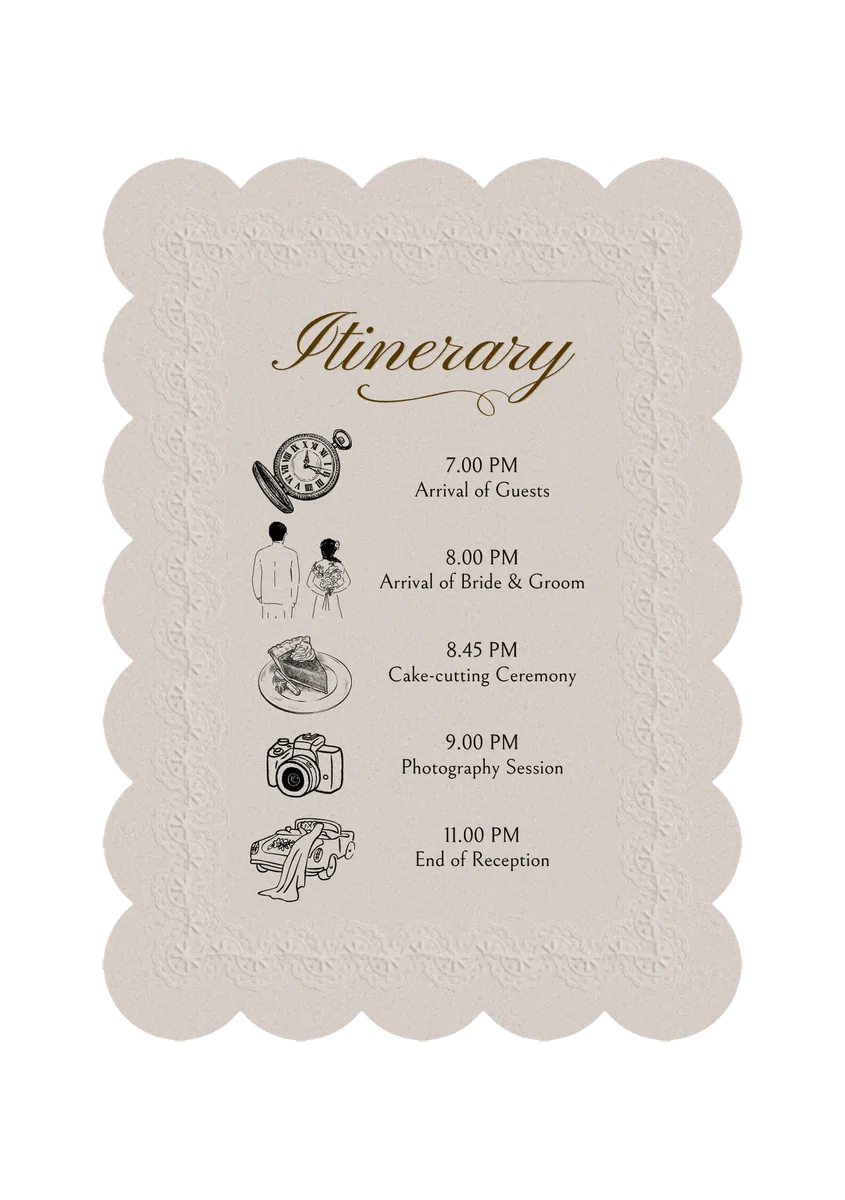
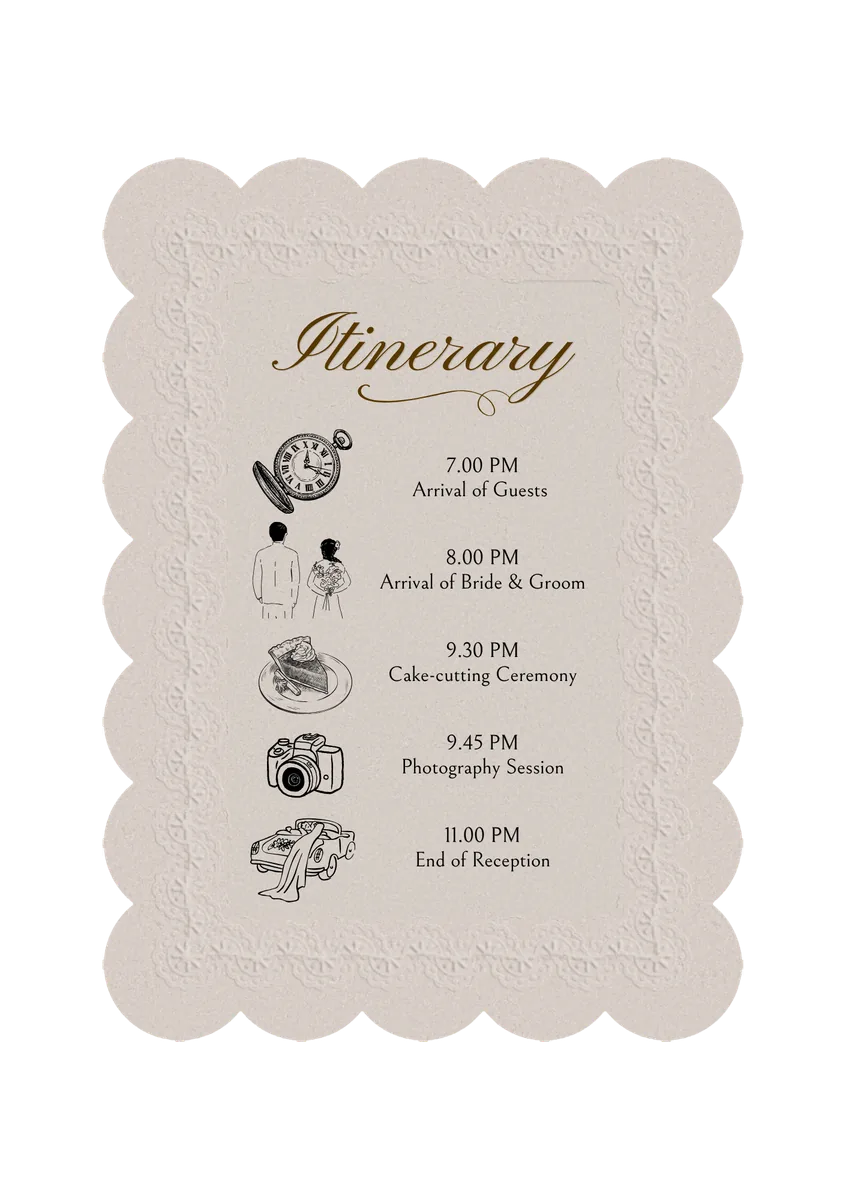
Swap in the new itinerary and split the sittings
?t=7 / ?t=9 set which session the invitation card shows.

diff --git a/lib/invite-variant.ts b/lib/invite-variant.ts
@@ -9,6 +9,18 @@ import { useSearchParams } from 'next/navigation';
  *   ?p=v2 → Anis' parents' guests    — 7–9 PM, registry shown
  *   ?p=v3 → our friends and guests   — 9–11 PM, registry shown
  *
+ * `?t=` sets the session window on its own, for links that only need to say
+ * which sitting a guest is invited to:
+ *
+ *   ?t=7 → 1st session, 7–9 PM
+ *   ?t=9 → 2nd session, 9–11 PM
+ *
+ * The two compose: `?t=` overrides whatever the `?p=` variant said about time
+ * and leaves the registry to `?p=`, so `?p=v1&t=9` is a 9–11 PM guest with the
+ * registry hidden. Time is one decision — the label, the calendar range and the
+ * countdown all move together, or the card and the "Add to Calendar" button end
+ * up disagreeing.
+ *
  * No param (or an unknown one) falls back to the full 7–11 PM invitation with
  * the registry, so a stripped or mistyped link never shows less than the truth.
  */
@@ -23,6 +35,21 @@ export interface InviteVariant {
   showRegistry: boolean;
 }
 
+/** The time half of a variant — everything `?t=` is allowed to set. */
+type InviteWindow = Pick<InviteVariant, 'timeLabel' | 'calendarDates' | 'countdownTarget'>;
+
+const EARLY: InviteWindow = {
+  timeLabel: '7.00 PM – 9.00 PM',
+  calendarDates: '20261031T190000/20261031T210000',
+  countdownTarget: '2026-10-31T19:00:00+08:00',
+};
+
+const LATE: InviteWindow = {
+  timeLabel: '9.00 PM – 11.00 PM',
+  calendarDates: '20261031T210000/20261031T230000',
+  countdownTarget: '2026-10-31T21:00:00+08:00',
+};
+
 const FULL: InviteVariant = {
   timeLabel: '7.00 PM – 11.00 PM',
   calendarDates: '20261031T190000/20261031T230000',
@@ -30,28 +57,29 @@ const FULL: InviteVariant = {
   showRegistry: true,
 };
 
-const EARLY = {
-  timeLabel: '7.00 PM – 9.00 PM',
-  calendarDates: '20261031T190000/20261031T210000',
-  countdownTarget: '2026-10-31T19:00:00+08:00',
-} as const;
-
 const VARIANTS: Record<string, InviteVariant> = {
   v1: { ...EARLY, showRegistry: false },
   v2: { ...EARLY, showRegistry: true },
-  v3: {
-    timeLabel: '9.00 PM – 11.00 PM',
-    calendarDates: '20261031T210000/20261031T230000',
-    countdownTarget: '2026-10-31T21:00:00+08:00',
-    showRegistry: true,
-  },
+  v3: { ...LATE, showRegistry: true },
 };
 
-export function getInviteVariant(p: string | null | undefined): InviteVariant {
-  return (p && VARIANTS[p]) || FULL;
+/** `?t=` — the session a guest is invited to, keyed by its starting hour. */
+const WINDOWS: Record<string, InviteWindow> = {
+  '7': EARLY,
+  '9': LATE,
+};
+
+export function getInviteVariant(
+  p: string | null | undefined,
+  t?: string | null | undefined,
+): InviteVariant {
+  const variant = (p && VARIANTS[p]) || FULL;
+  const window = t && WINDOWS[t];
+  return window ? { ...variant, ...window } : variant;
 }
 
-/** Reads `?p=` from the URL. Callers must sit under a <Suspense> boundary. */
+/** Reads `?p=` and `?t=`. Callers must sit under a <Suspense> boundary. */
 export function useInviteVariant(): InviteVariant {
-  return getInviteVariant(useSearchParams().get('p'));
+  const params = useSearchParams();
+  return getInviteVariant(params.get('p'), params.get('t'));
 }

diff --git a/components/sections/ItinerarySection.module.css b/components/sections/ItinerarySection.module.css
@@ -42,11 +42,78 @@
 }
 
 /* The tallest artwork on the page, so this is the one card whose height ceiling
-   can bind — expressed as a width through the plate's 1409:2000 ratio. */
+   can bind — expressed as a width through the plate's 1410:2000 ratio. */
 .itineraryCard {
-  max-width: min(var(--card-max), calc(var(--card-h) * 1409 / 2000));
+  max-width: min(var(--card-max), calc(var(--card-h) * 1410 / 2000));
 }
 
 .dressCode {
   max-width: var(--card-max);
+}
+
+/* ── The two-sitting note.
+
+   Free-standing type on the stage backdrop rather than a plate of its own, so
+   it reads as a footnote to the card above instead of competing with it. The
+   backdrop is a pale blush wash (assets/el-bg-itinerary.webp), which carries
+   ink at this weight without a scrim behind it.
+
+   Sized in rem off a clamp rather than the cards' cqw: it isn't inside a
+   container-typed box, and at 30rem the measure is already narrower than
+   --card-max on every screen where that ceiling binds. The section's --sec-gap
+   sets the space above and below. ── */
+.sessions {
+  width: var(--card-w);
+  max-width: min(var(--card-max), 30rem);
+  display: flex;
+  flex-direction: column;
+  align-items: center;
+  gap: 0.85rem;
+  text-align: center;
+  font-family: var(--font-display);
+  color: var(--c-ink);
+}
+
+.sessionsIntro {
+  font-size: clamp(0.95rem, 2.3vw, 1.1rem);
+  line-height: 1.45;
+}
+
+/* Two columns so the labels and the windows line up down the pair, instead of
+   each row centring on its own length — the second window is a character
+   wider than the first. The rows are `display: contents` because the grid that
+   does the aligning is the <dl>, and the <div>s only exist to keep each
+   dt/dd pair together for assistive tech. */
+.sessionList {
+  display: grid;
+  grid-template-columns: auto auto;
+  justify-content: center;
+  column-gap: 0.5em;
+  row-gap: 0.15em;
+  font-size: clamp(1rem, 2.6vw, 1.2rem);
+  line-height: 1.5;
+}
+
+.sessionRow {
+  display: contents;
+}
+
+.sessionLabel {
+  text-align: right;
+  color: var(--c-gold);
+}
+
+.sessionLabel::after {
+  content: ':';
+}
+
+.sessionTime {
+  margin: 0;
+  text-align: left;
+}
+
+.sessionsRefer {
+  font-size: clamp(0.9rem, 2.2vw, 1.05rem);
+  line-height: 1.45;
+  color: var(--c-ink-3);
 }

diff --git a/components/sections/ItinerarySection.tsx b/components/sections/ItinerarySection.tsx
@@ -6,6 +6,16 @@ import styles from './ItinerarySection.module.css';
 import itineraryCard from '@/assets/el-itinerary-card.webp';
 import dressCode from '@/assets/el-dresscode.webp';
 
+/* The reception runs one programme but seats two sittings, so the card above
+   (7 PM to 11 PM end to end) is not the window any single guest is asked for.
+   Printed here rather than baked into the artwork so the split can be reworded
+   without a new plate. The per-guest window is on the invitation card itself,
+   set by ?t= — see lib/invite-variant.ts. */
+const SESSIONS = [
+  { label: '1st Session', time: '7.00 pm – 9.00 pm' },
+  { label: '2nd Session', time: '9.00 pm – 11.00 pm' },
+];
+
 interface ItinerarySectionProps {
   style?: CSSProperties;
 }
@@ -20,10 +30,28 @@ export default function ItinerarySection({ style }: ItinerarySectionProps) {
             layout on load. */}
         <Image
           src={itineraryCard}
-          alt="Reception itinerary — 7.00 PM arrival of guests, 8.00 PM arrival of bride and groom, 8.45 PM cake-cutting ceremony, 9.00 PM photography session, 11.00 PM end of reception"
+          alt="Reception itinerary — 7.00 PM arrival of guests, 8.00 PM arrival of bride and groom, 9.30 PM cake-cutting ceremony, 9.45 PM photography session, 11.00 PM end of reception"
           className={styles.itineraryCard}
           sizes="(max-width: 767px) 92vw, (max-width: 1024px) 78vw, 38vw"
         />
+
+        <div className={styles.sessions}>
+          <p className={styles.sessionsIntro}>
+            To accommodate all our guests comfortably, the attendance is split into
+            two sessions:
+          </p>
+
+          <dl className={styles.sessionList}>
+            {SESSIONS.map(({ label, time }) => (
+              <div key={label} className={styles.sessionRow}>
+                <dt className={styles.sessionLabel}>{label}</dt>
+                <dd className={styles.sessionTime}>{time}</dd>
+              </div>
+            ))}
+          </dl>
+
+          <p className={styles.sessionsRefer}>Please kindly refer to your invitation.</p>
+        </div>
 
         <Image
           src={dressCode}

diff --git a/components/sections/InvitationCardSection.tsx b/components/sections/InvitationCardSection.tsx
@@ -12,7 +12,7 @@ import { getInviteVariant, useInviteVariant } from '../../lib/invite-variant';
 import bgInvitation from '@/assets/el-bg-invitation.webp';
 import cardBlank from '@/assets/el-invitation-card-blank.webp';
 
-/* Reading ?p= (useSearchParams) forces whatever it's nested in to bail out of
+/* Reading ?p= / ?t= (useSearchParams) forces whatever it's nested in to bail out of
    static rendering into a Suspense fallback — that used to be the *entire*
    InvitationContent tree, because this was the only thing in it asking for
    the param. So the invitation card, itinerary, RSVP, registry and footer
@@ -21,8 +21,9 @@ import cardBlank from '@/assets/el-invitation-card-blank.webp';
    any of it appeared. Scoping Suspense to just these two variant-dependent
    fragments lets everything else — including the two Images above — render
    and get requested immediately. getInviteVariant(null) (== FULL) is what
-   guests without a ?p= param see anyway, so it doubles as a fallback with no
-   layout shift; only ?p=v1/v2/v3 guests see a near-instant swap post-hydration. */
+   guests without those params see anyway, so it doubles as a fallback with no
+   layout shift; only guests on a variant link see a near-instant swap
+   post-hydration. */
 const DEFAULT_VARIANT = getInviteVariant(null);
 
 function DetailLines({ revealed }: { revealed: boolean }) {
@@ -83,7 +84,7 @@ const INVITE_LINES = [
   'hadir ke majlis perkahwinan anakanda kami',
 ];
 
-/** The time line comes from the ?p= variant — see lib/invite-variant.ts */
+/** The time line comes from the ?p= / ?t= variant — see lib/invite-variant.ts */
 const detailLines = (timeLabel: string) => [
   'Sabtu, 31 Oktober 2026',
   timeLabel,

diff --git a/app/layout.tsx b/app/layout.tsx
@@ -83,7 +83,7 @@ export const metadata: Metadata = {
   // The load-bearing facts sit in the first 62 characters — WhatsApp truncates
   // a preview at roughly two lines. The reception time and the registry are
   // left out on purpose: those are the two facts that differ between the ?p=
-  // audience variants (lib/invite-variant.ts), so a forwarded card can never
+  // and ?t= variants (lib/invite-variant.ts), so a forwarded card can never
   // reveal which invitation a guest was sent.
   description:
     'Wedding Reception of Anis & Zafran - Sabtu, 31 Oktober 2026. Grand Ballroom, BoraOmbak Putrajaya.',
@@ -104,7 +104,7 @@ export const metadata: Metadata = {
 
   openGraph: {
     type: 'website',
-    // One canonical share identity, so every audience variant (?p=v1|v2|v3)
+    // One canonical share identity, so every audience variant (?p=, ?t=)
     // and every ?ref= link previews identically.
     url: '/',
     siteName: 'Anis & Zafran',

diff --git a/app/globals.css b/app/globals.css
@@ -72,7 +72,7 @@
      viewport with the URL bar hidden, so a vh cap can run past the screen.
 
      --card-max is 660px rather than the artwork's natural width so the tallest
-     plate (the 1409x2000 itinerary) still clears --card-h on a 1080p screen —
+     plate (the 1410x2000 itinerary) still clears --card-h on a 1080p screen —
      above that it would be the one card sitting narrower than the rest. */
   --sec-pad: 3rem;
   --sec-gap: 2rem;
